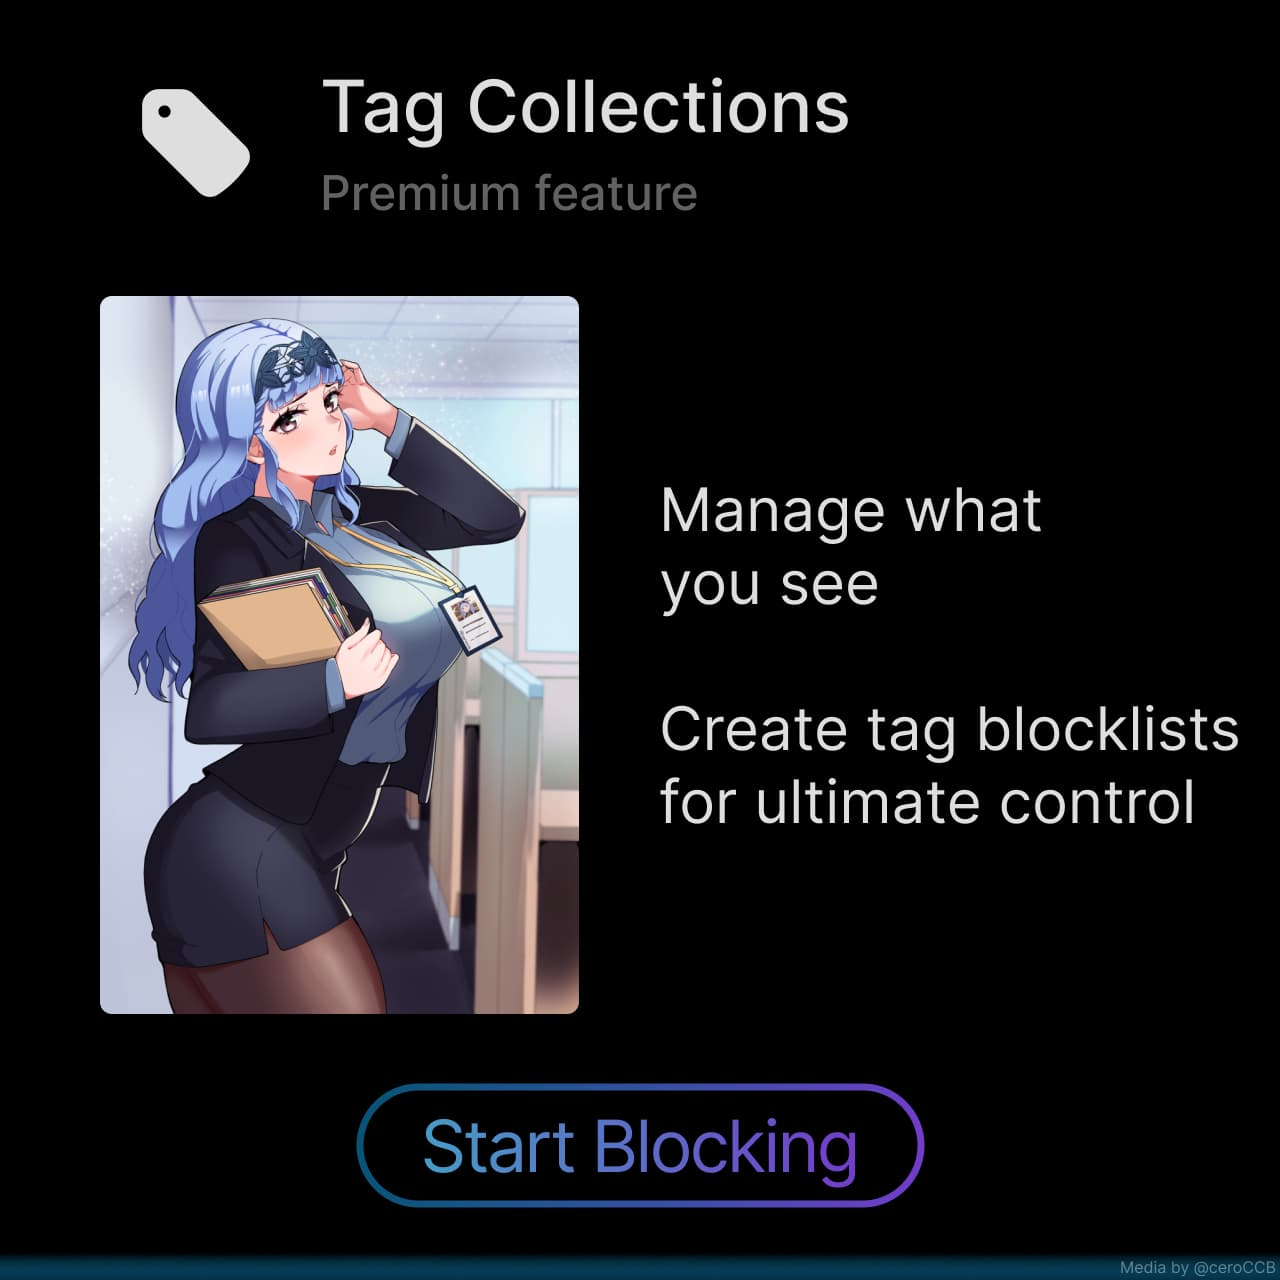
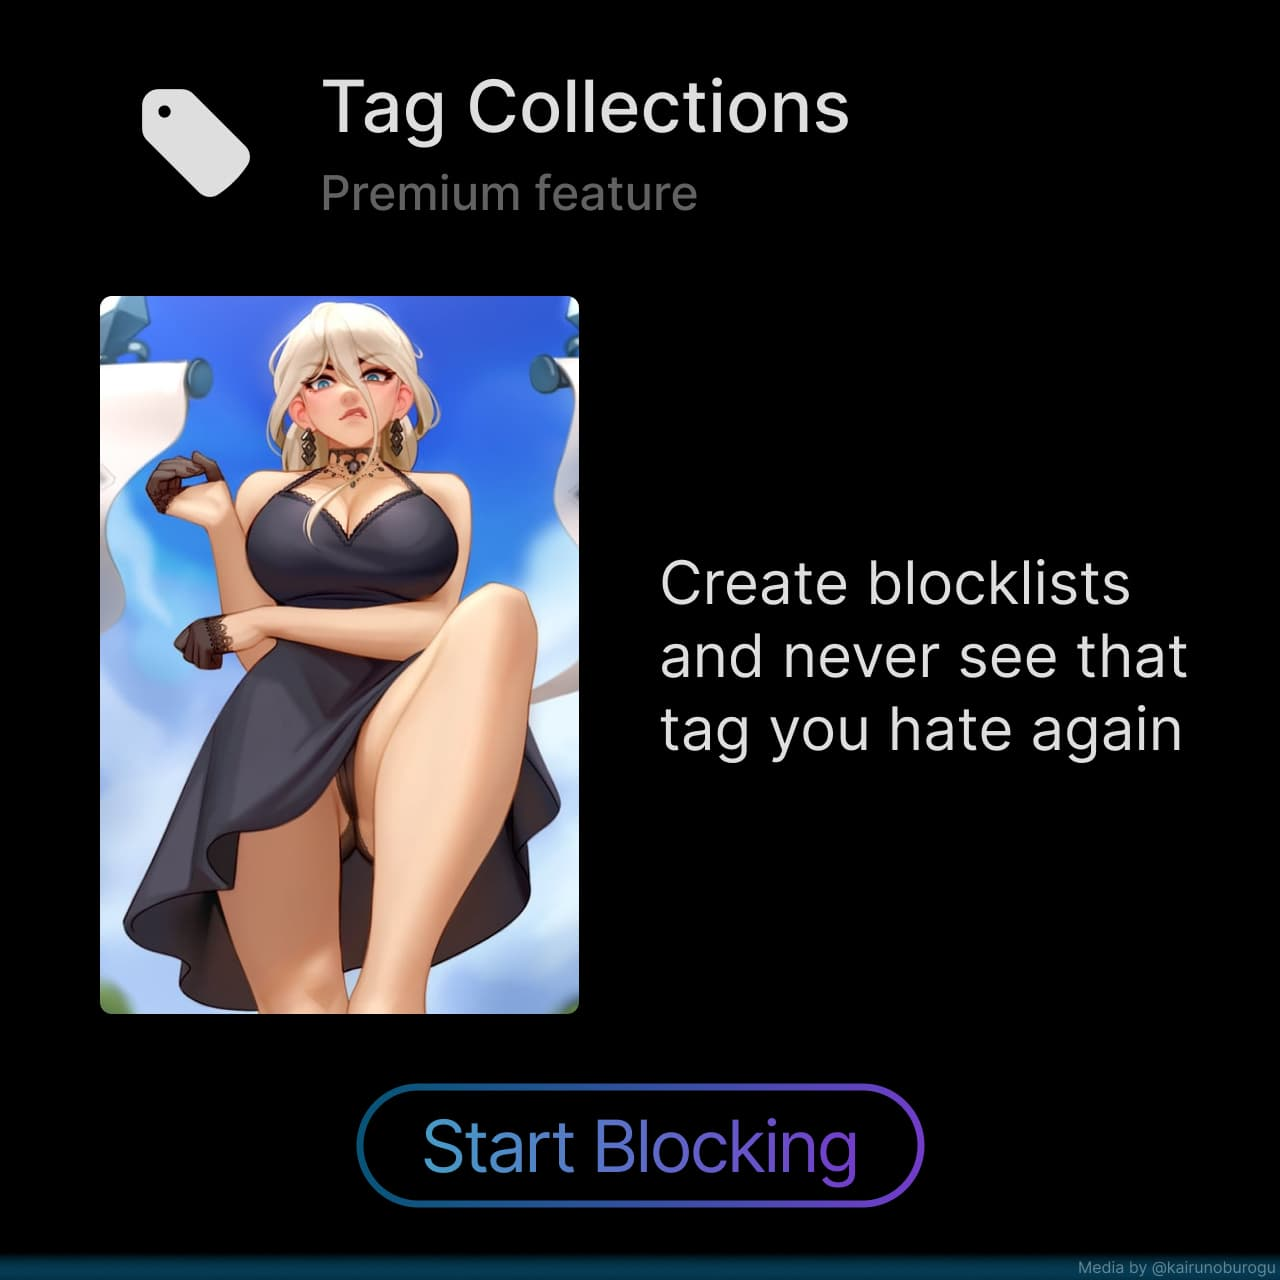
feat: add promo for faster image loading

diff --git a/components/pages/posts/PromotedContent.vue b/components/pages/posts/PromotedContent.vue
@@ -1,7 +1,7 @@
 <script setup>
-import {default as random_weighted_choice} from 'random-weighted-choice'
+  import { default as random_weighted_choice } from 'random-weighted-choice'
 
-const premiumPromotions = [
+  const premiumPromotions = [
     // Premium
     {
       media: '/img/promo/premium/Additional Boorus.jpg',
@@ -59,14 +59,20 @@ const premiumPromotions = [
       mediaType: 'image',
       link: '/premium?utm_source=internal&utm_medium=promo-support-us'
     },
-  // TODO: Improve media
-    // {
-    //   media: '/img/promo/premium/Tag Collections.jpg',
-    //   mediaWidth: 1280,
-    //   mediaHeight: 1280,
-    //   mediaType: 'image',
-    //   link: '/premium?utm_source=internal&utm_medium=promo-tag-collections'
-    // }
+    {
+      media: '/img/promo/premium/Tag Collections.jpg',
+      mediaWidth: 1280,
+      mediaHeight: 1280,
+      mediaType: 'image',
+      link: '/premium?utm_source=internal&utm_medium=promo-tag-collections'
+    },
+    {
+      media: '/img/promo/premium/Faster Image Loading.jpg',
+      mediaWidth: 1280,
+      mediaHeight: 1280,
+      mediaType: 'image',
+      link: '/premium?utm_source=internal&utm_medium=promo-faster-image-loading'
+    }
   ]
 
   const otherPromotions = [
@@ -95,7 +101,7 @@ const premiumPromotions = [
       mediaHeight: 1200,
       mediaType: 'image',
       link: 'https://candy.ai?via=rule-3496'
-    },
+    }
     // dreamgf.ai
     // {
     //   media: '/img/promo/referrals/DreamGF-300x600-2.gif',
